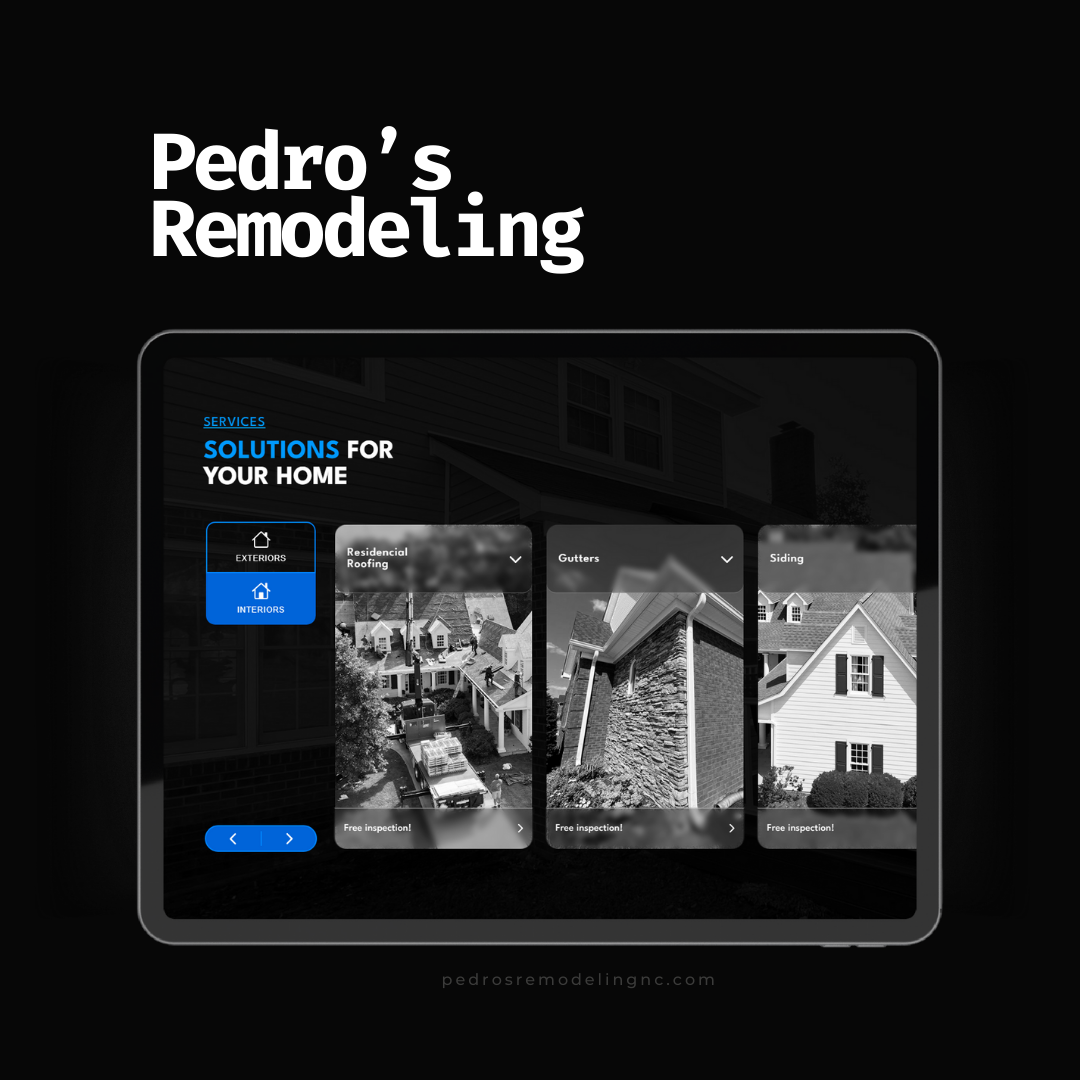
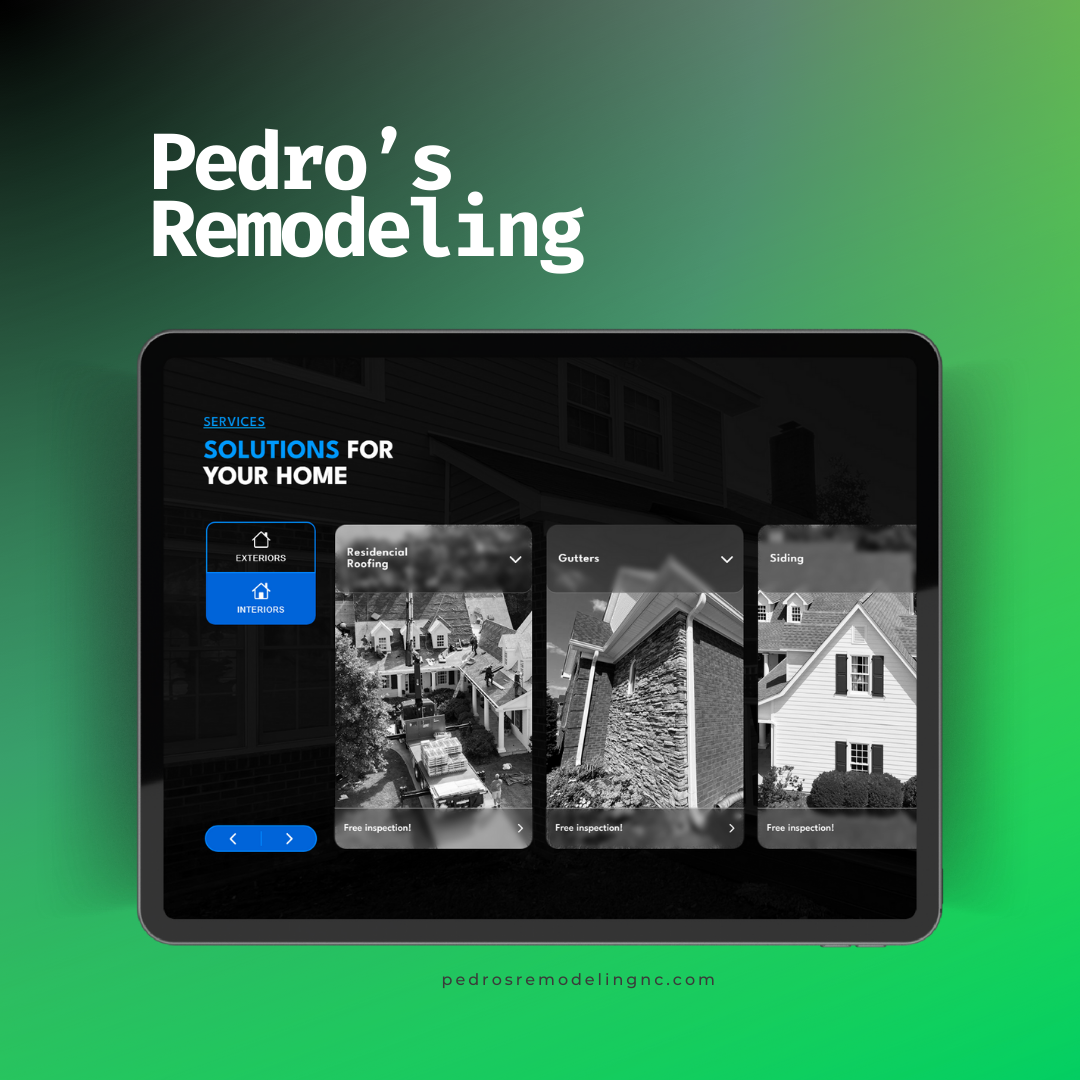
change hero typing color; change bento responsive

diff --git a/src/components/ProjectsBento/ProjectsBento.css b/src/components/ProjectsBento/ProjectsBento.css
@@ -9,7 +9,7 @@
     "item4 item4 item5"
     "item6 item7 item7";
   margin-top: 5%;
-  gap: 1rem;
+  gap: 0.6rem;
   width: 100%;
 }
 
@@ -20,11 +20,6 @@
   height: 100%;
   border: 2px solid rgb(31, 31, 31);
 
-}
-
-.bento-item:hover {
-  transform: scale(1.04);
-    transition: transform 0.5s;
 }
 
 .item1 {
@@ -57,11 +52,17 @@
 
 
 .bento-img{
-  border-radius: 8px;
+  border-radius: 16px;
   width: 100%;
   height: 100%;
   object-fit: cover;
   padding: 0.6rem;
+}
+
+.bento-img:hover {
+  border-radius: 16px;
+  transform: scale(1.04);
+    transition: transform 0.5s;
 }
 
 .small-img{
@@ -125,7 +126,7 @@
       "item3 item4"
       "item5 item6"
       "item7 item7";
-      width: 90%;
+      width: 100%;
   place-self: center;
   /* border: 1px solid rgb(255, 255, 255); */
   }
@@ -144,12 +145,12 @@
   
   .small-img{
     width: 100%;
-    max-height: 300px;
+    max-height: 220px;
     /* border: 1px solid rgb(244, 244, 244); */
   }
   
   .big-img{
-    max-height: 300px;
+    max-height: 220px;
     object-fit: cover;
   }
 }

diff --git a/src/components/Hero/Hero.css b/src/components/Hero/Hero.css
@@ -35,7 +35,7 @@
 
 .animated-text .text {
   position: relative;
-  color: #adfa1d;
+  color: var(--green-color);
   font-size: 2rem;
   font-weight: 400;
 }
@@ -52,7 +52,7 @@
   height: 100%;
   width: 100%;
   background-color: #000000;
-  border-left: 2px solid #adfa1d;
+  border-left: 2px solid var(--green-color);
   animation: animate 4s steps(14) infinite;
 }
 

diff --git a/src/components/ProjectsBento/ProjectsBento.tsx b/src/components/ProjectsBento/ProjectsBento.tsx
@@ -1,6 +1,6 @@
 import "./ProjectsBento.css";
 
-import tablet from "../../assets/img/8.png";
+import tablet from "../../assets/img/4.png";
 
 export default function ProjectsBento(){
     return (

diff --git a/src/index.css b/src/index.css
@@ -47,6 +47,7 @@ html,
   text-rendering: optimizeLegibility;
 
   /* colors */
+  --green-color: #0bce5f;
   --color-black-bg: #000000;
   --color-ligth-bg: #9b9a9a;
   --color-black-bg: #000000;
